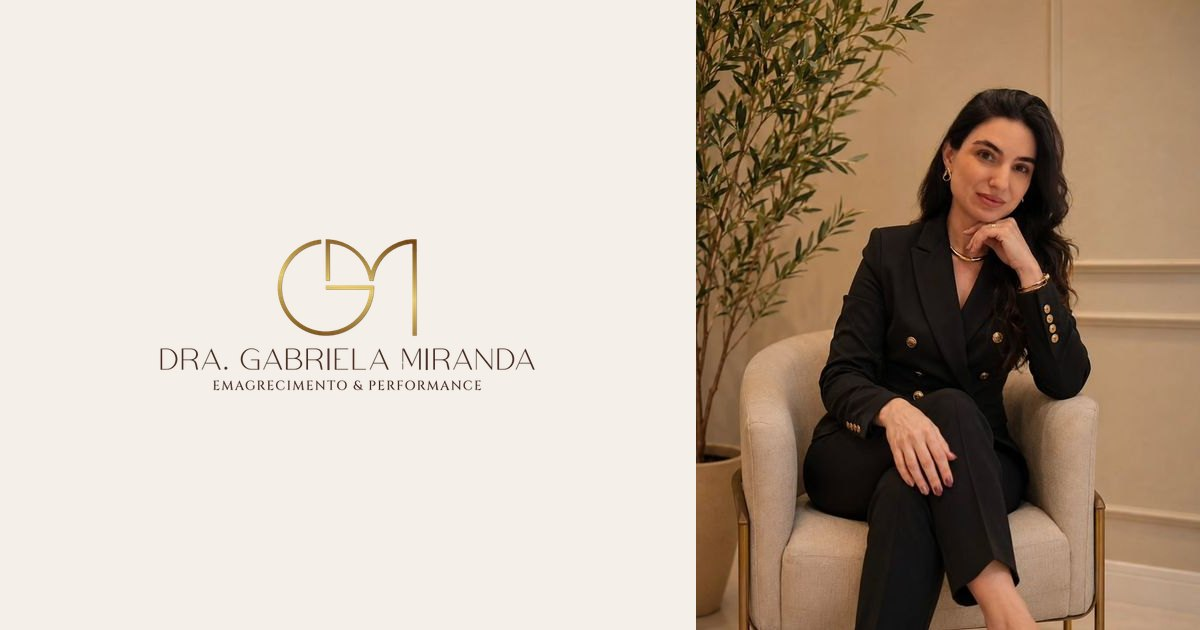
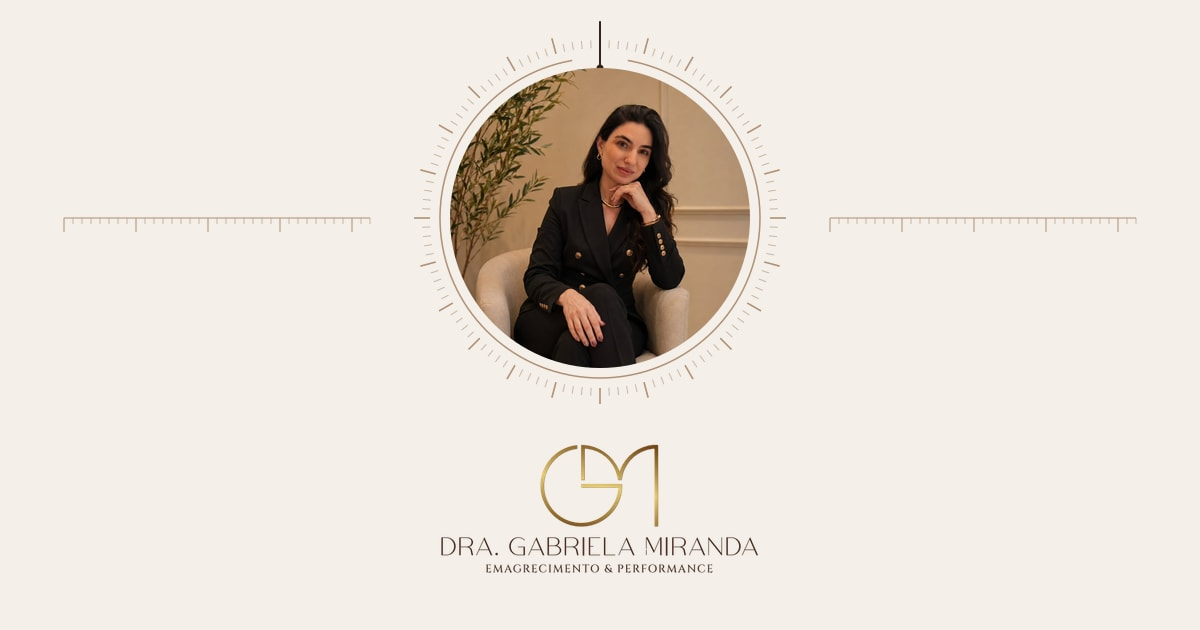
Corrige a prévia de link ao compartilhar o site
A imagem de prévia apontava para localhost, então Instagram e WhatsApp
não mostravam nada. Agora usa o endereço público do site. A imagem foi
refeita com o conteúdo no centro, para resistir ao corte quadrado.

diff --git a/src/app/layout.tsx b/src/app/layout.tsx
@@ -22,13 +22,18 @@ const title = "Dra. Gabriela Miranda | Emagrecimento e Performance em Uberlândi
 const description =
   "Médica em Uberlândia com foco em emagrecimento, obesidade, saúde metabólica e performance. Consulta presencial com bioimpedância na Concept Clinic e teleconsulta. CRM MG 73587.";
 
+/* Endereço público do site: é ele que monta o link da imagem de prévia ao compartilhar. */
+const siteUrl = process.env.NEXT_PUBLIC_SITE_URL ?? "https://dragabrielamiranda.vercel.app";
+
 export const metadata: Metadata = {
-  metadataBase: new URL(process.env.NEXT_PUBLIC_SITE_URL ?? "http://localhost:3000"),
+  metadataBase: new URL(siteUrl),
   title,
   description,
+  alternates: { canonical: "/" },
   openGraph: {
     title,
     description,
+    url: "/",
     locale: "pt_BR",
     type: "website",
     siteName: site.name,
